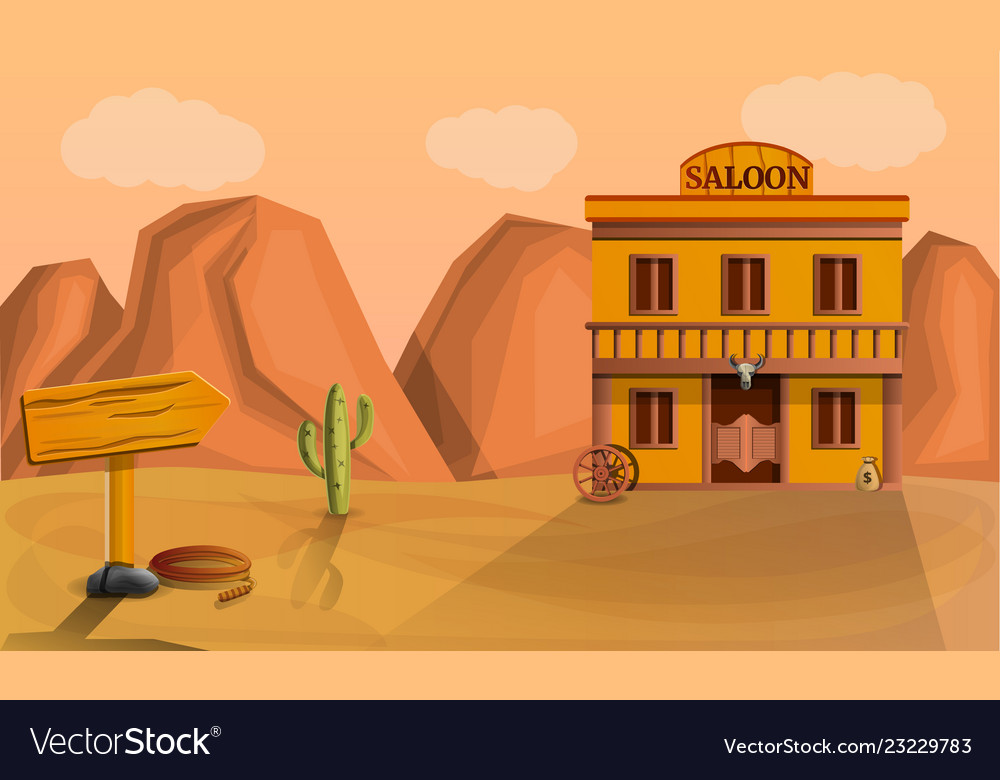
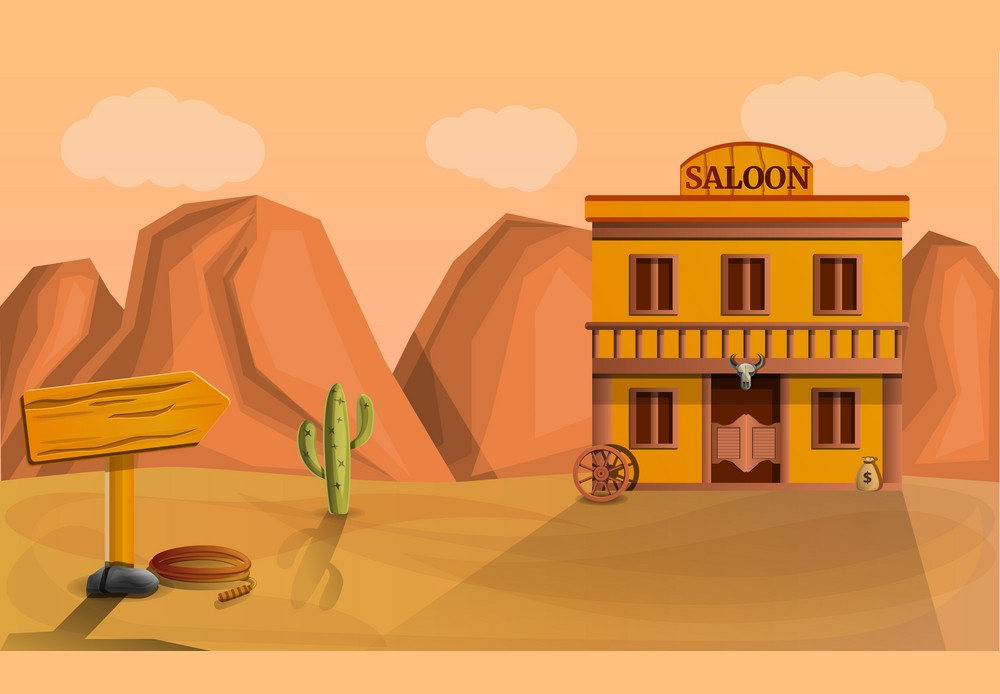
commit 5 +saloon image to html +cropped saloon image

diff --git a/index.html b/index.html
@@ -13,7 +13,9 @@
 </head>
 <body>
     
-
+    <div>
+        <img src="images/saloon.jpg" alt="Picture of a cartoon saloon">
+    </div>
 
 
 
